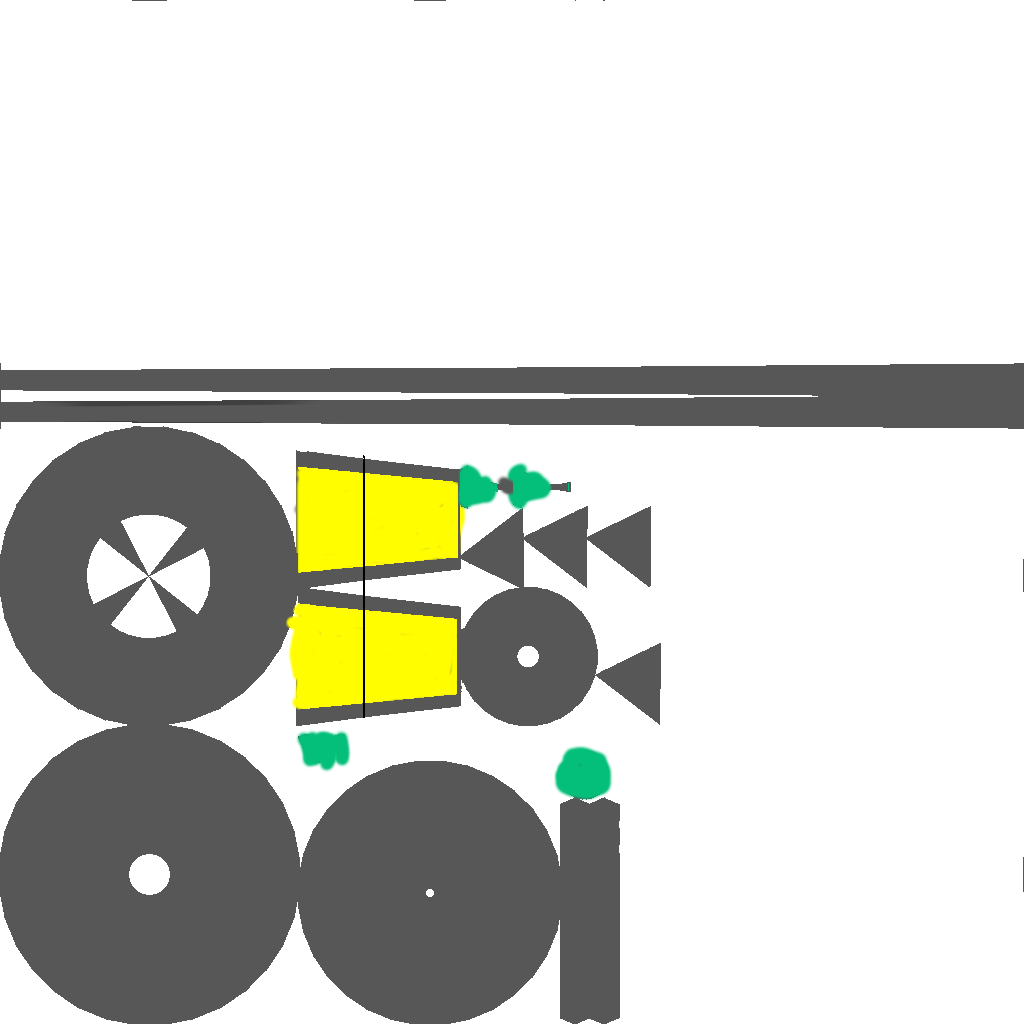
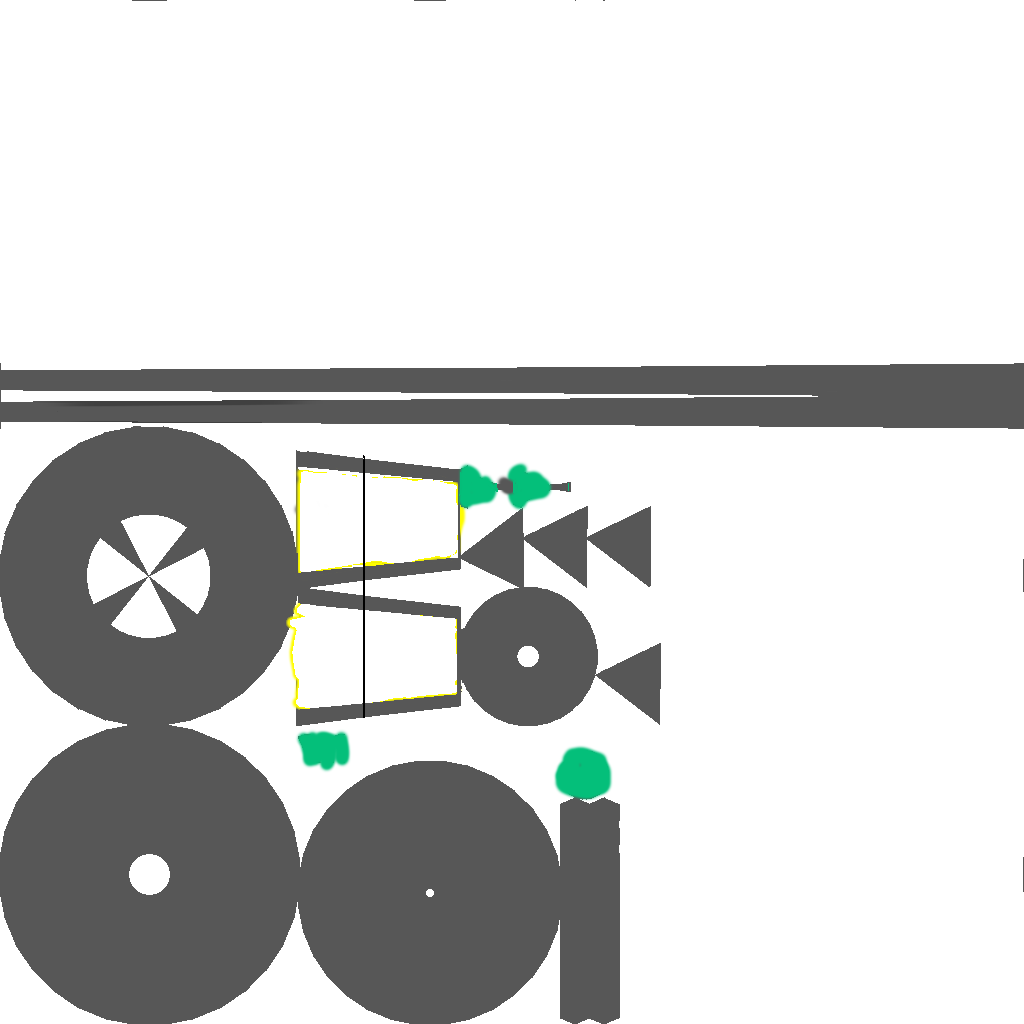
Alpha 0.0.0.2.0: THE GREAT LIGHT UPDATE! :D

Changed region(s): [[0.2812, 0.4375, 0.4688, 0.5625], [0.2812, 0.5938, 0.4688, 0.6875]]

diff --git a/src/engineRunner/MainGameLoop.java b/src/engineRunner/MainGameLoop.java
@@ -121,18 +121,24 @@ public class MainGameLoop {
 		
 
 		Entity entity = new Entity(ReWineGlass, new Vector3f(0, 0, -25), 0, 0, 0, 20);
+
 		
-		Entity StreetLampO = new Entity(StreetLamp, new Vector3f(0, 0, -50), 0, 0, 0, 5);
-
-		Light light = new Light(new Vector3f(0, 10000, -7000), new Vector3f(1, 1, 1));
-        List<Light> lights = new ArrayList<Light>();
-        lights.add(light);
-        lights.add(new Light(new Vector3f(-200,100,-200), new Vector3f(5,0,0)));
-        lights.add(new Light(new Vector3f(200,100,200), new Vector3f(0,0,5)));
-
 		Terrain terrain = new Terrain(0, -1, loader, texturePack, blendMap, "heightmap");
 		Terrain terrain2 = new Terrain(-1, -1, loader, texturePack, blendMap, "heightmap");
 		
+		//Lights
+        List<Light> lights = new ArrayList<Light>();
+        lights.add(new Light(new Vector3f(0, 1000, -7000), new Vector3f(0.4f,0.4f,0.4f)));
+        lights.add(new Light(new Vector3f(185, 9, -293), new Vector3f(2,0,0), new Vector3f(1, 0.01f, 0.002f)));
+        lights.add(new Light(new Vector3f(370, 16, -300), new Vector3f(0,2,2), new Vector3f(1, 0.01f, 0.002f)));
+        lights.add(new Light(new Vector3f(293, 6, -305), new Vector3f(2,2,0), new Vector3f(1, 0.01f, 0.002f)));
+        
+        //Lamps
+        
+        entities.add(new Entity(StreetLamp, new Vector3f(185, terrain.getHeightOfTerrain(185, -293) - 0.5f, -293), 0, 0, 0, 5));
+        entities.add(new Entity(StreetLamp, new Vector3f(370, terrain.getHeightOfTerrain(370, -300) - 0.5f, -300), 0, 0, 0, 5));
+        entities.add(new Entity(StreetLamp, new Vector3f(293, terrain.getHeightOfTerrain(293, -305) - 0.5f, -305), 0, 0, 0, 5));
+        
 		for(int i = 0; i < 400; i++){
 			if (i % 20 == 0) {
 				float x = random.nextFloat() * 800 - 400;
@@ -182,7 +188,6 @@ public class MainGameLoop {
 			renderer.processTerrain(terrain);
 			renderer.processTerrain(terrain2);
 			renderer.processEntity(entity);
-			renderer.processEntity(StreetLampO);
 			for(Entity ent:entities){
 				renderer.processEntity(ent);
 			}

diff --git a/src/shaders/TerrainShader.java b/src/shaders/TerrainShader.java
@@ -20,6 +20,7 @@ public class TerrainShader extends ShaderProgram{
     private int location_viewMatrix;
     private int location_lightPosition[];
     private int location_lightColor[];
+	private int location_attenuation[];
     private int location_shineDamper;
     private int location_reflectivity;
     private int location_skyColor;
@@ -56,9 +57,11 @@ public class TerrainShader extends ShaderProgram{
          
         location_lightPosition = new int[MAX_LIGHTS];
         location_lightColor = new int[MAX_LIGHTS];
+		location_attenuation = new int[MAX_LIGHTS];
         for(int i=0;i<MAX_LIGHTS;i++){
             location_lightPosition[i] = super.getUniformLocation("lightPosition[" + i + "]");
             location_lightColor[i] = super.getUniformLocation("lightColor[" + i + "]");
+			location_attenuation[i] = super.getUniformLocation("attenuation[" + i + "]");
         }
     }
      
@@ -88,9 +91,11 @@ public class TerrainShader extends ShaderProgram{
             if(i<lights.size()){
                 super.loadVector(location_lightPosition[i], lights.get(i).getPosition());
                 super.loadVector(location_lightColor[i], lights.get(i).getColor());
+                super.loadVector(location_attenuation[i], lights.get(i).getAttenuation());
             }else{
                 super.loadVector(location_lightPosition[i], new Vector3f(0, 0, 0));
                 super.loadVector(location_lightColor[i], new Vector3f(0, 0, 0));
+                super.loadVector(location_attenuation[i], new Vector3f(1, 0, 0));
             }
         }
     }

diff --git a/src/shaders/StaticShader.java b/src/shaders/StaticShader.java
@@ -23,6 +23,7 @@ public class StaticShader extends ShaderProgram{
 	private int location_viewMatrix;
 	private int location_lightPosition[];
 	private int location_lightColor[];
+	private int location_attenuation[];
 	private int location_shineDamper;
 	private int location_reflectivity;
 	private int location_useFakeLighting;
@@ -56,9 +57,11 @@ public class StaticShader extends ShaderProgram{
 		
 		location_lightPosition = new int[MAX_LIGHTS];
 		location_lightColor = new int[MAX_LIGHTS];
+		location_attenuation = new int[MAX_LIGHTS];
 		for(int i=0;i<MAX_LIGHTS;i++){
 			location_lightPosition[i] = super.getUniformLocation("lightPosition[" + i + "]");
 			location_lightColor[i] = super.getUniformLocation("lightColor[" + i + "]");
+			location_attenuation[i] = super.getUniformLocation("attenuation[" + i + "]");
 		}
 	}
 	
@@ -92,9 +95,11 @@ public class StaticShader extends ShaderProgram{
             if(i<lights.size()){
                 super.loadVector(location_lightPosition[i], lights.get(i).getPosition());
                 super.loadVector(location_lightColor[i], lights.get(i).getColor());
+                super.loadVector(location_attenuation[i], lights.get(i).getAttenuation());
             }else{
                 super.loadVector(location_lightPosition[i], new Vector3f(0, 0, 0));
                 super.loadVector(location_lightColor[i], new Vector3f(0, 0, 0));
+                super.loadVector(location_attenuation[i], new Vector3f(1, 0, 0));
             }
         }
     }

diff --git a/src/entities/Light.java b/src/entities/Light.java
@@ -6,10 +6,21 @@ public class Light {
 	
 	private Vector3f position;
 	private Vector3f color;
+	private Vector3f attenuation = new Vector3f(1, 0, 0);
 	
 	public Light(Vector3f position, Vector3f color) {
 		this.position = position;
 		this.color = color;
+	}
+	
+	public Light(Vector3f position, Vector3f color, Vector3f attenuation) {
+		this.position = position;
+		this.color = color;
+		this.attenuation = attenuation;
+	}
+	
+	public Vector3f getAttenuation() {
+		return attenuation;
 	}
 
 	public Vector3f getPosition() {

diff --git a/src/renderEngine/DisplayManager.java b/src/renderEngine/DisplayManager.java
@@ -13,7 +13,7 @@ public class DisplayManager {
 	private static final int WIDTH = 1280;
 	private static final int HEIGHT = 720;
 	private static final int FPS_CAP = 120;
-	public static String Title = "Alpha 0.0.0.1.9";
+	public static String Title = "Alpha 0.0.0.2.0";
 	
 	private static long lastFrameTime;
 	private static float delta;

diff --git a/README.md b/README.md
@@ -5,6 +5,10 @@ My first java game, let's hope this ends well
 
 _______________________
 
+ Alpha 0.0.0.2.0
++ Added point light support. 
++ 3 lamps, can you find them? (if you care?)
+
  Alpha 0.0.0.1.9
 * Fixed issue #2
 
